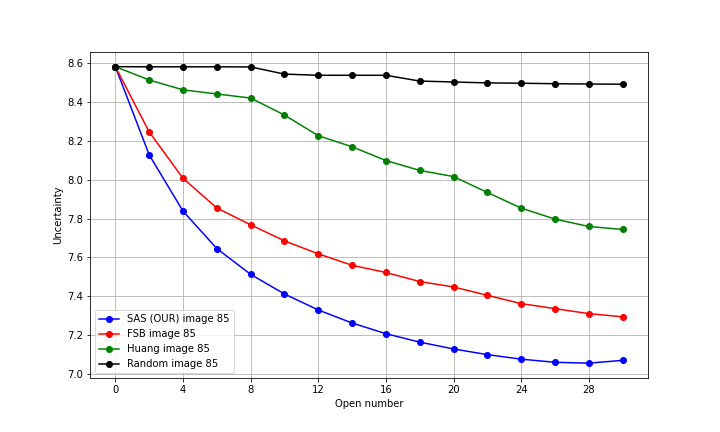
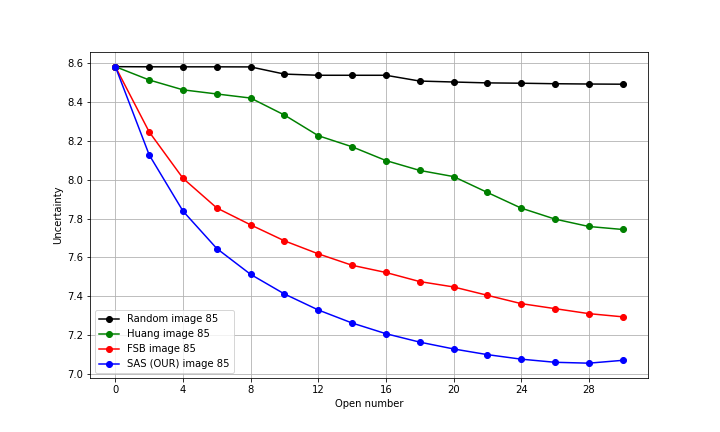
update the plot

Changed region(s): [[0.1222, 0.7222, 0.3361, 0.8727], [0.1528, 0.1505, 0.1833, 0.1806]]

diff --git a/CAV 2025 TODO/experiments.tex b/CAV 2025 TODO/experiments.tex
@@ -3,7 +3,7 @@
 \begin{figure}[b!]
 	\centering
 	\vspace*{-0.3cm}
-	\includegraphics[height=7cm]{open.png}.
+	\includegraphics[height=7cm]{CNN-B-ADV_layer7_comparison_image85.png}.
 	\vspace*{-0.4cm}
 	\caption{Average uncertainty of pMILP for neurons of the fourth layer of CNN-B-Adv, 
 	when selecting between 0 and 30 ReLUs with different scoring functions.}
